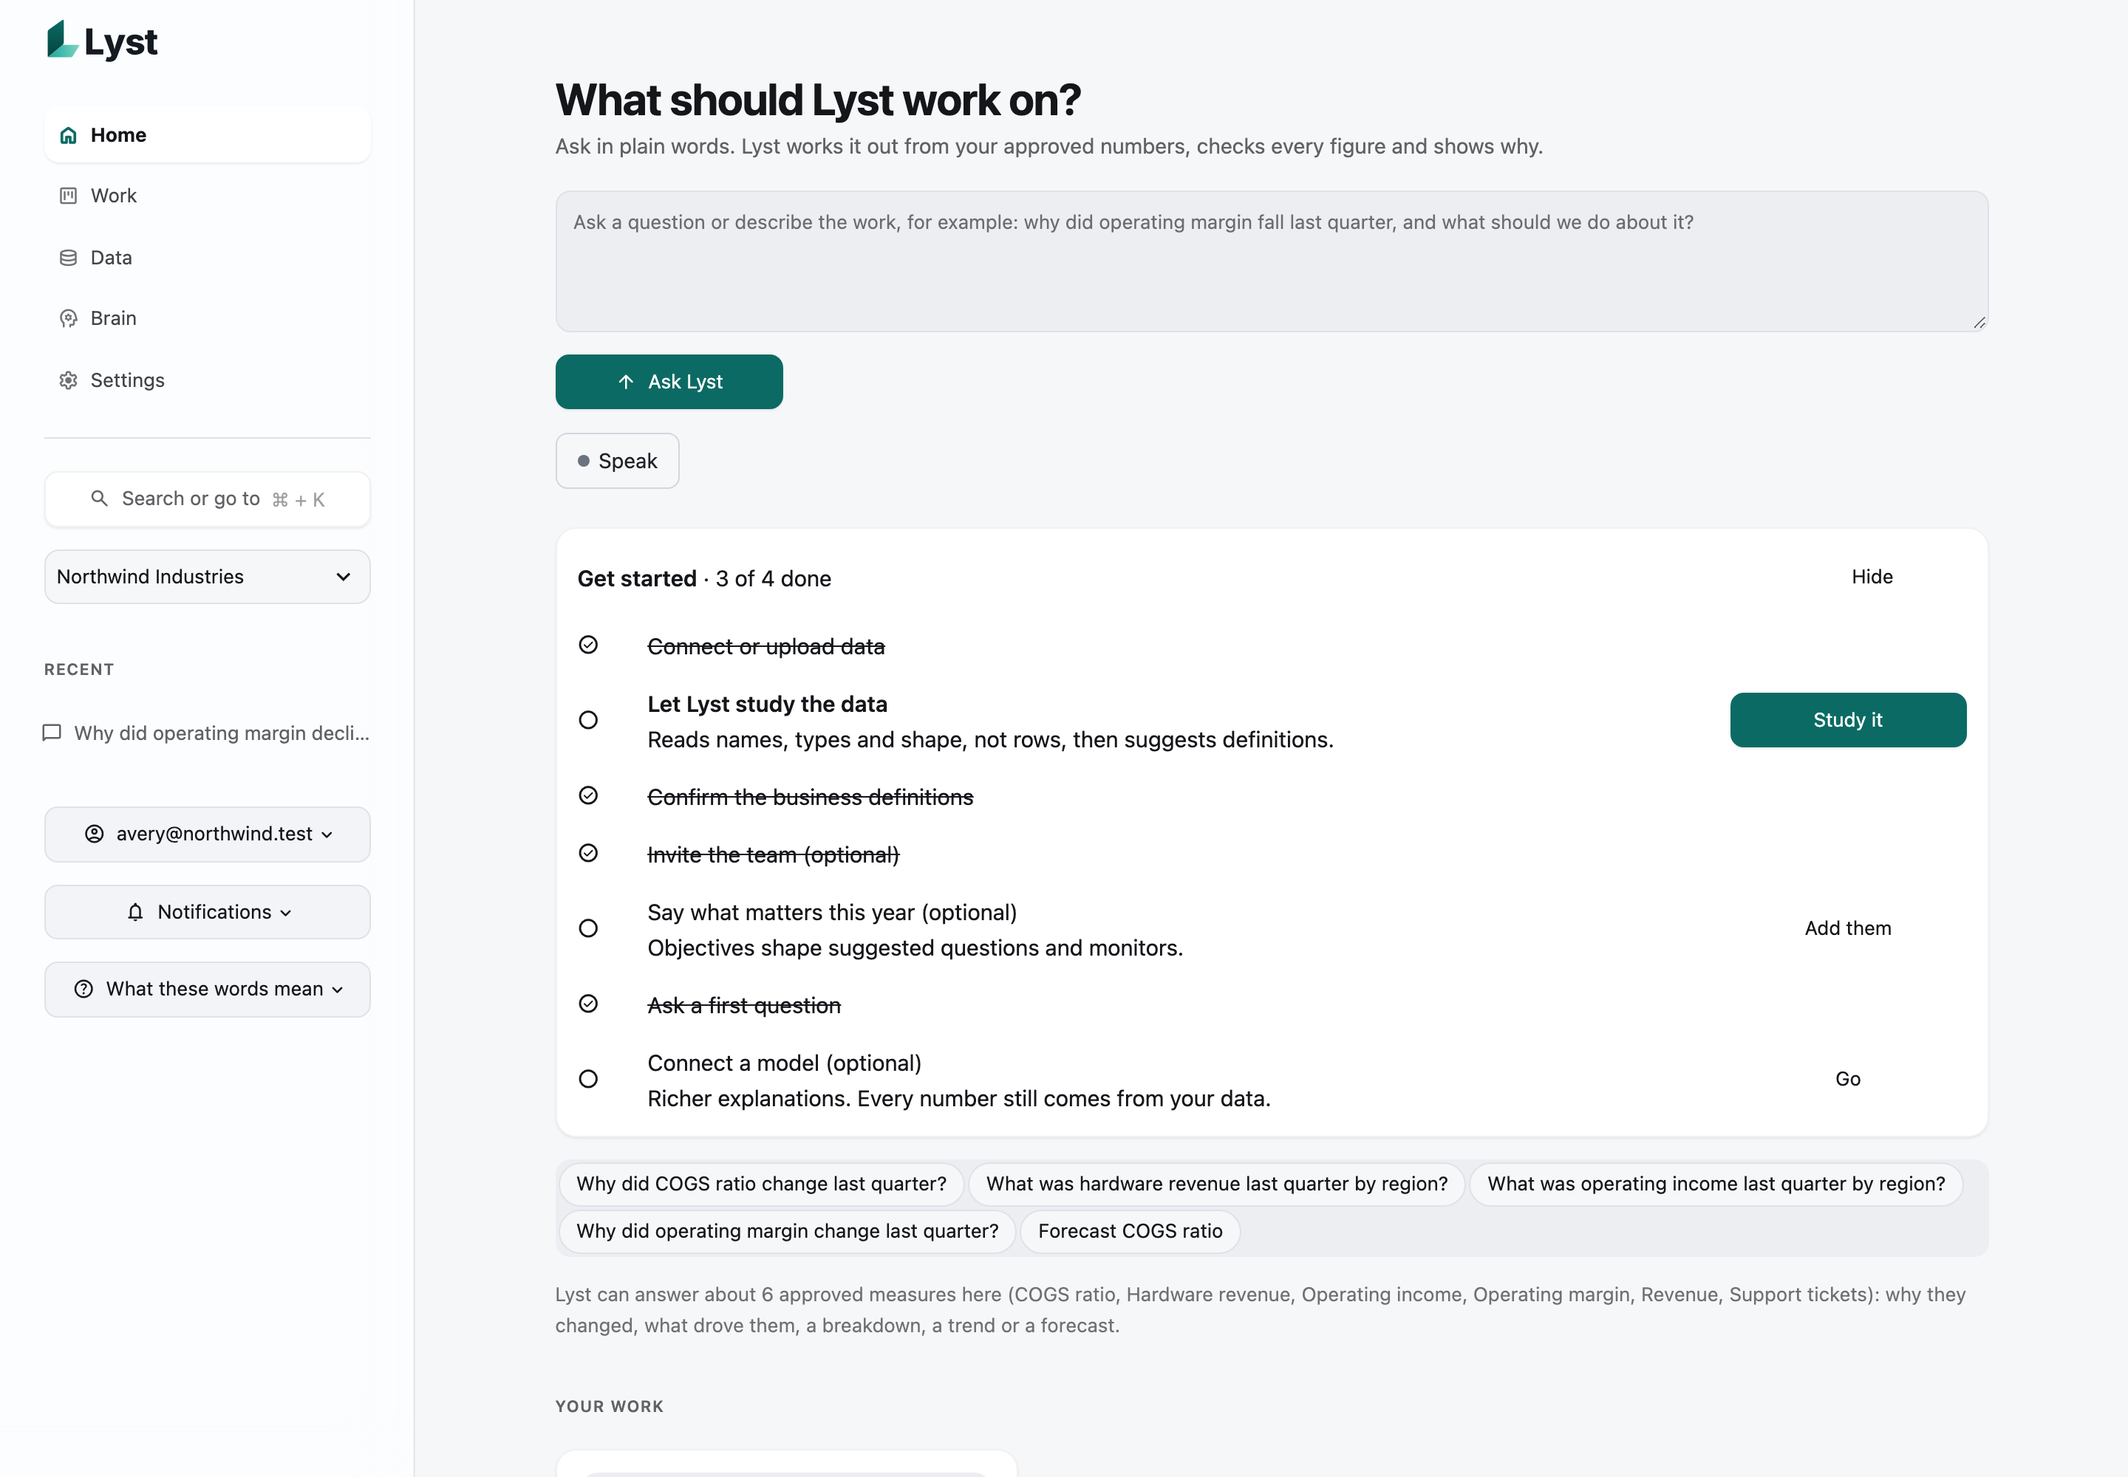
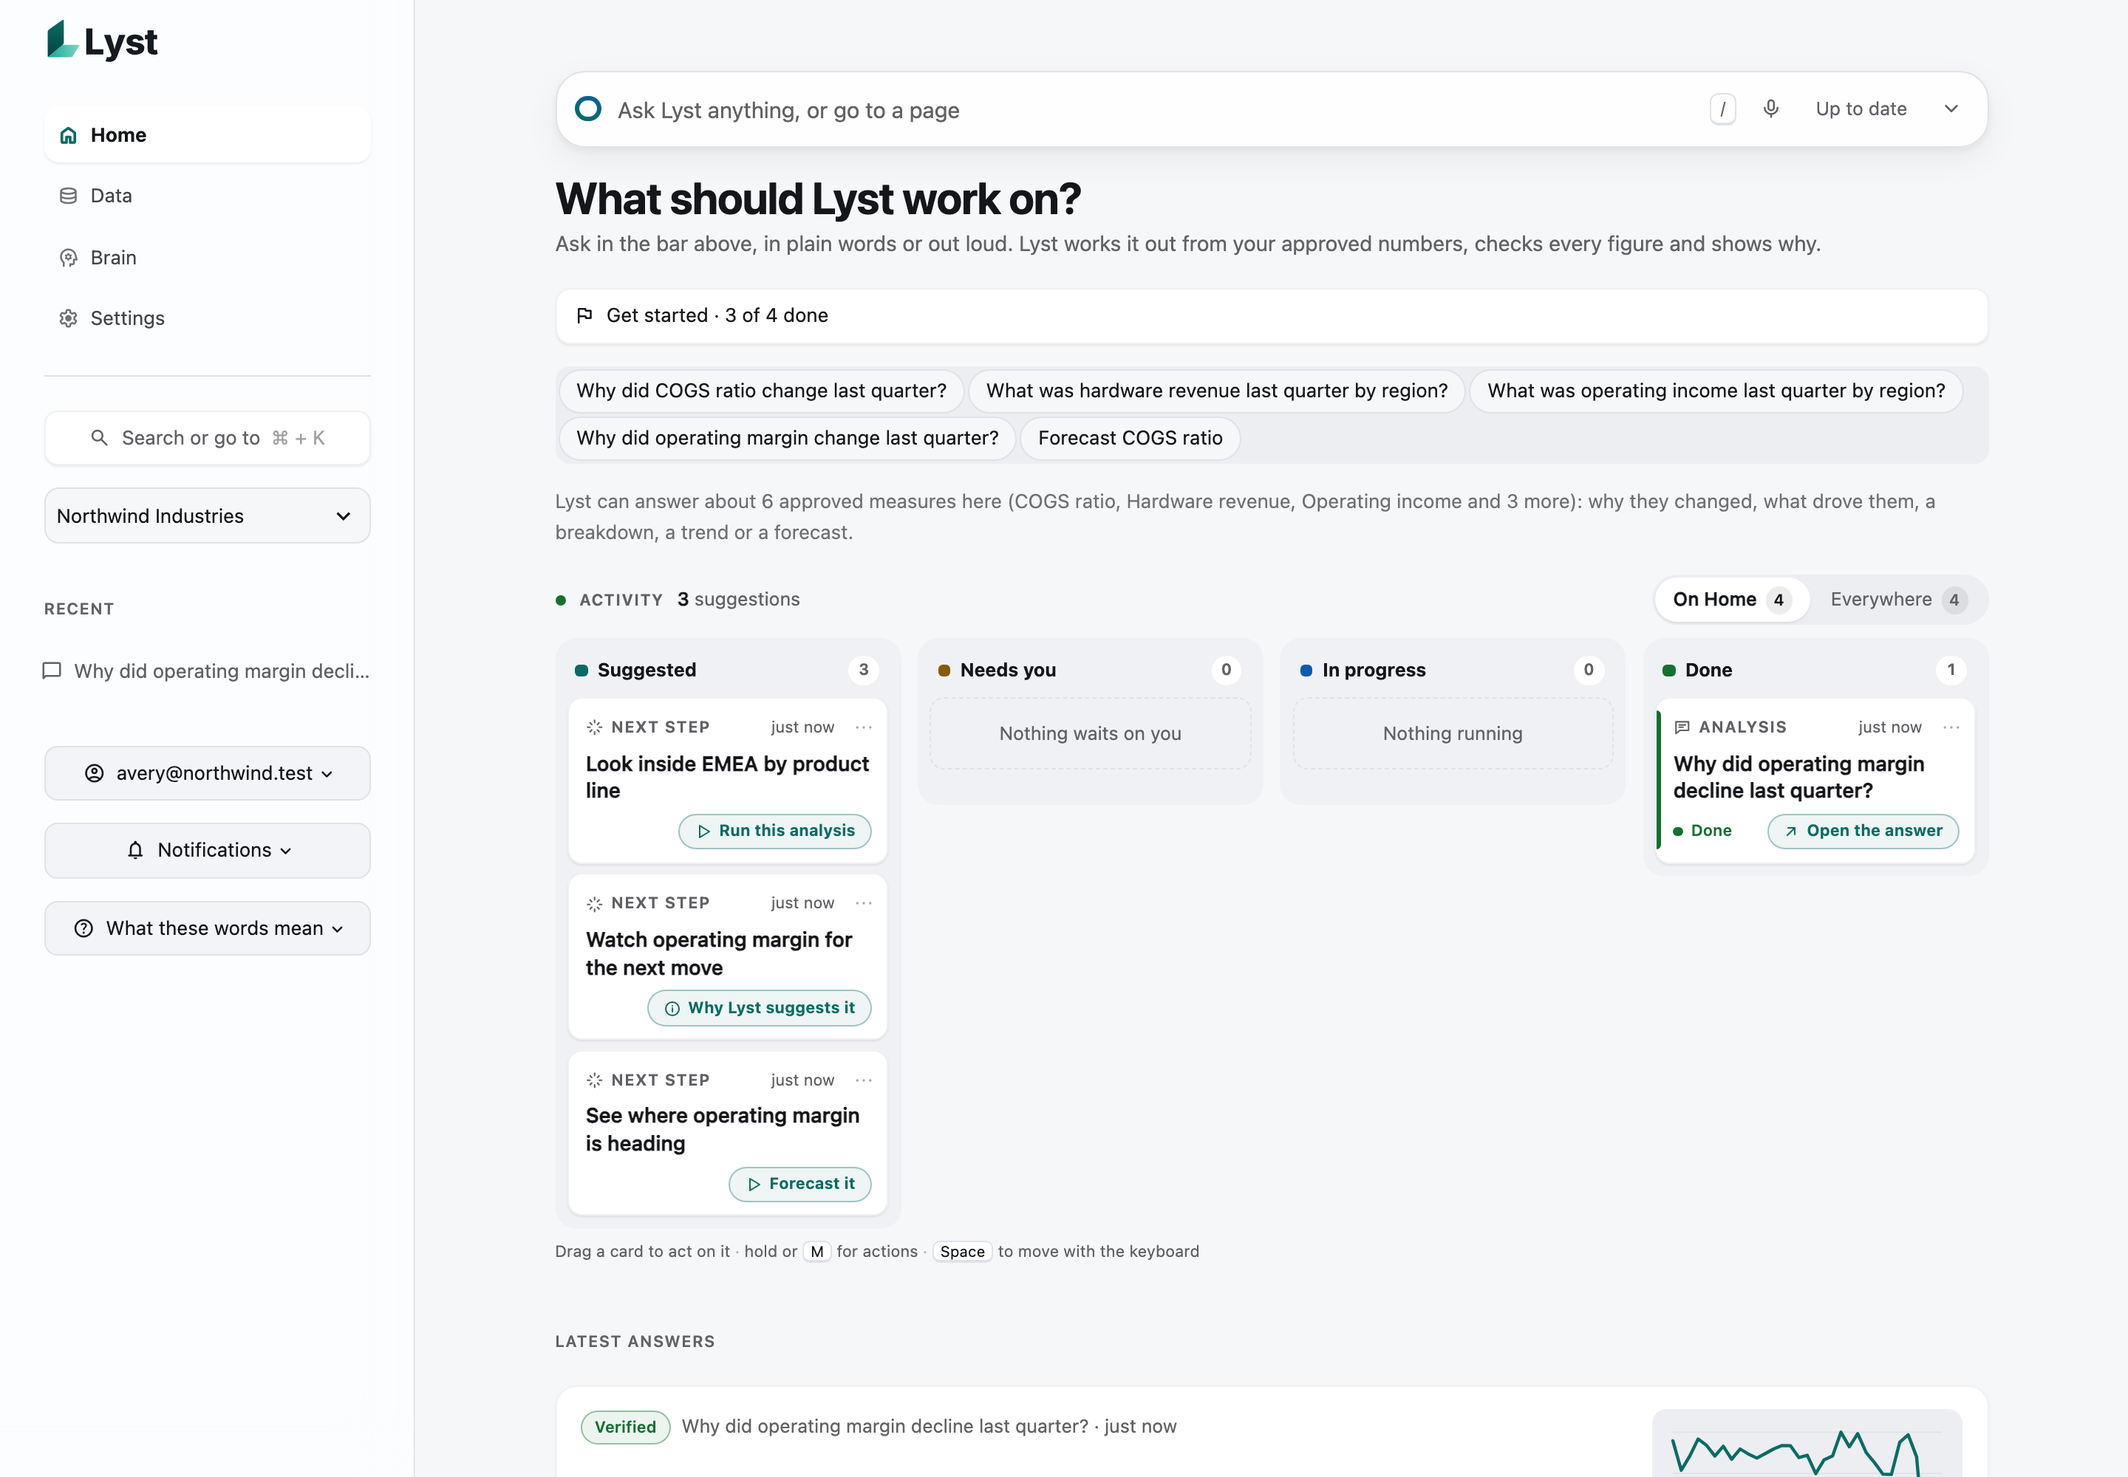
README: Home, Data, Brain, Settings; activity board and agent bar; locale and fault tests (#147)
* README: four areas with Work under Brain (#144), the activity board and Lyst agent bar (#145/#146), fault tests and locale/accessibility helpers (#139)

* README: say the locale and accessibility helpers are not used by the interface yet (#139)

---------

diff --git a/README.md b/README.md
@@ -83,24 +83,35 @@ understanding and wording, never the numbers.
 
 ## A tour of the interface
 
-One navigation with five areas, and one visual language behind every screen: a calm canvas with raised, softly lit
-surfaces, a translucent sidebar, dialogs that rise as sheets, native-style segmented controls and buttons, the
-system typeface, and motion that respects reduced-motion settings, in light and dark. A single set of design
-tokens drives Streamlit's widgets, Lyst's own components and every chart, every screen is checked by an automated
-render with WCAG 2.2 AA accessibility scanning, and text and status colours meet 4.5:1 contrast in both themes.
-The sidebar holds **Search or go to** (⌘K), your four most recent questions with their live status, notifications,
-and a "What these words mean" glossary.
+One navigation with four areas (Home, Data, Brain and Settings), and one visual language behind every screen: a
+calm canvas with raised, softly lit surfaces, a translucent sidebar, dialogs that rise as sheets, native-style
+segmented controls and buttons, the system typeface, and motion that respects reduced-motion settings, in light
+and dark. A single set of design tokens drives Streamlit's widgets, Lyst's own components and every chart, every
+screen is checked by an automated render with WCAG 2.2 AA accessibility scanning, and text and status colours meet
+4.5:1 contrast in both themes. At the top of every page is the **Lyst agent bar**: ask by typing or speaking
+(asked from Data, Brain or Settings, the answer follows in a panel without leaving the page), go anywhere by name
+("go to SQL", "open definitions"), and watch Lyst work: a **Watch** chip for what is running, a **Live** panel
+with each step and the event feed, and an opt-in **Follow Lyst**. Below it, every page has the same **activity
+board**, with Suggested, Needs you, In progress and Done, scoped to the page with an **Everywhere** switch: click
+a card to open it, hold it (or press M) for its actions, or drag it to another column to propose that move, with
+each column saying what a drop would do; the keyboard works too (arrows, and Space to pick up and drop), every
+change asks for confirmation and goes through the usual approvals and permissions, and viewers can only open
+cards. The sidebar holds **Search or go to** (⌘K), your four most recent questions with their live status,
+notifications, and a "What these words mean" glossary.
 
 | Area | What you do there |
 |---|---|
-| **Home** | A workspace, not a dashboard: the composer (with **Speak**), a Get started card that follows the workspace's real set-up state, suggested questions, **Your work** (a shelf of what Lyst has made, each with a preview drawn from its own content) and the conversations to pick up |
-| **Work** | A command center: a live status strip, then what needs you (approvals), what Lyst is doing and finished as a day-by-day timeline or a board, and what runs on its own: watched metrics, scheduled questions and what Lyst noticed. Each task's steps show as a timeline from the engine. **Automatic** shows what event rules started, with why, the flow and any approval inline |
-| **Data** | A library rail of datasets, approved metrics and dashboards beside the workspace; tabs for Datasets (as cards, a map of shared columns, or a list), Sources, Dashboards, Saved analyses and SQL (with a sandboxed **Python** tab), plus **Ask about the data**. Every dataset card shows its size, freshness, the shape of its columns and what it feeds. **Add data** uploads a file, connects a source, or proposes connections from an API description |
-| **Brain** | What Lyst knows about the business, opening on its **Graph**: a map of everything it knows and how it links, plus graph runs. Then Definitions (each approved metric and term as what it means and how it is built, or a map from data to metrics), Documents it can cite, Memory (with memories waiting for review), and **Specializations**: a searchable catalog of the 136 kinds of analyst work with each one's honest maturity |
+| **Home** | Answer-first: a one-line status ("1 thing needs you · watching 3 metrics · next run in 3 h"), suggested questions, the activity board, then **Latest answers** as cards (the verified answer with a preview; *Why, and what to do* folds open in place) and **Made for you**. Get started and earlier answers fold into one line each |
+| **Data** | Opens with Lyst's read on the data in one line ("1 of 4 datasets needs attention…", with **Review**), then the activity board, a library rail of datasets, approved metrics and dashboards, and tabs for Datasets (as cards, a map of shared columns, or a list), Sources, Dashboards, Saved analyses and SQL (with a sandboxed **Python** tab), plus **Ask about the data**. **Add data** uploads a file, connects a source, or proposes connections from an API description |
+| **Brain** | What Lyst knows, what it is doing and what it runs on its own, in a band at the top. Its sections: **Work** (needs you, activity with Running, Done, Stopped, Automatic, Decisions and Published, and recurring work: watched metrics, scheduled questions and what Lyst noticed; each task's steps show as a timeline from the engine), **Graph** (the default: a map of everything it knows and how it links, plus graph runs), Definitions, Documents it can cite, Memory (with memories waiting for review), and **Specializations** (the 136 kinds of analyst work with each one's honest maturity) |
 | **Settings** | A native two-pane screen with grouped settings: Models (level and costs), Connections (keys and sources), Workspace (members, autonomy, data policy, webhooks, audit trail), Voice, and Advanced (skills, capabilities, evaluation runs, and how working ahead went) |
 
 <p align="center">
-  <img src="docs/images/home.png" alt="Home: the ask box with Speak, the Get started card with its set-up steps, and the first metric tiles" width="80%">
+  <img src="docs/images/home.png" alt="Home: the Lyst agent bar, suggested questions, and the activity board with Suggested, Needs you, In progress and Done" width="80%">
+</p>
+
+<p align="center">
+  <img src="docs/images/agent-bar.png" alt="The Lyst agent bar: typing go to sql offers Data, SQL with Go" width="70%">
 </p>
 
 ### ⌘K: ask or go anywhere
@@ -196,11 +207,11 @@ in what the answer found, each with Run now (or Watch it), Later and Why.
 
 <table>
   <tr>
-    <td width="50%"><img src="docs/images/work.png" alt="Work: needs you, activity and recurring runs"><br><b>Work</b>: needs you, activity and recurring runs</td>
+    <td width="50%"><img src="docs/images/work.png" alt="Brain, Work: needs you, activity filters (Running, Done, Stopped, Automatic, Decisions, Published) and recurring"><br><b>Brain › Work</b>: needs you, activity and recurring runs</td>
     <td width="50%"><img src="docs/images/data.png" alt="Data: datasets with descriptions, rows, freshness and classification"><br><b>Data</b>: datasets, dashboards, saved analyses and SQL</td>
   </tr>
   <tr>
-    <td><img src="docs/images/brain.png" alt="Brain: approved metrics and business terms"><br><b>Brain</b>: definitions, documents and memory</td>
+    <td><img src="docs/images/brain.png" alt="Brain: what Lyst knows, is doing and runs on its own, above the sections and the knowledge graph"><br><b>Brain</b>: what it knows, is doing and runs on its own</td>
     <td><img src="docs/images/saved-analyses.png" alt="Data, Saved analyses: a verified analysis ready to rerun"><br><b>Saved analyses</b>: verified work Lyst reruns for any period</td>
   </tr>
 </table>
@@ -226,7 +237,7 @@ compares options on weighted criteria and constraints under uncertainty, finds w
 change, and allocates budgets with an exact solver. It says "insufficient evidence" or "no clear winner" rather
 than claim one. A **decision record** goes from analyzed to submitted to approved or rejected by a person, who
 may pick a different option, and is later reviewed against what actually happened. Nothing is executed. Editors
-start one with **Compare options** on an answer, and records are listed in Work › Activity › Decisions.
+start one with **Compare options** on an answer, and records are listed in Brain › Work › Activity › Decisions.
 
 <table>
   <tr>
@@ -335,7 +346,7 @@ says a person is needed.
 * **Your notifications, your way.** Mentions, assignments, reviews, decisions and comments on what you own
   arrive in one list with platform notices, and each kind can be switched off per person.
 
-On screen: **Share** and **Discuss** sit on every answer; **Work › Needs you** adds *Assigned to you* (Open, Done)
+On screen: **Share** and **Discuss** sit on every answer; **Brain › Work › Needs you** adds *Assigned to you* (Open, Done)
 and *Reviews waiting* (Open, Approve, Reject), counted in the sidebar; and **Notifications** in the sidebar open
 where they point, with Mark all read and "What to tell me about".
 
@@ -475,8 +486,8 @@ where they point, with Mark all read and "What to tell me about".
   inside the main driver, watch a metric that moved, make a repeated question recurring, extend a review into a
   forecast); each can be run now, watched or scheduled, and watching or scheduling still needs approval. On
   watched metrics it raises an early warning only when two kinds of evidence agree (change point, sustained trend,
-  forecast drift, projected breach), investigates it first, and surfaces a verified warning in Work › Needs you
-  with the answer, drivers, implications and next steps. On screen: **Coming up** at the top of Work › Recurring
+  forecast drift, projected breach), investigates it first, and surfaces a verified warning in Brain › Work › Needs you
+  with the answer, drivers, implications and next steps. On screen: **Coming up** at the top of Brain › Work › Recurring
   (Ready, Blocked or Check first, with Run now, Later and Why), **Prepared for you** in Needs you for items that
   need a person, **Next steps** under each answer, a line on Home when an upcoming run is blocked, and **Working
   ahead** in Settings › Workspace to pick the level and see today's use against the daily limits. The **Why**
@@ -505,18 +516,18 @@ where they point, with Mark all read and "What to tell me about".
   repair. Each rule has a ceiling on how far it may go on its own, a daily cap and quiet periods, can be dry-run
   against recent events first, and anything that changes something waits for approval. Seven templates cover data
   quality, schema changes, broken reports, metric deviations, recoverable failures, definition changes and failing
-  connections. Rules live in Settings › Workspace › **Event rules**, and what they started shows in Work ›
+  connections. Rules live in Settings › Workspace › **Event rules**, and what they started shows in Brain › Work ›
   Activity › **Automatic** ([docs/EVENTS.md](docs/EVENTS.md)).
 * **Knows what can be done with each thing, and by whom.** Every dataset, metric, answer, report, workflow,
   scenario model and decision record knows the actions available on it right now for the person looking, filtered
   by role, data policy and its state, and anything that changes something asks a person first. The server
   re-checks every action when it runs and refuses, and audits, anything not offered. Every task reports one
   status: Preparing, Investigating, Executing, Verifying, Awaiting Approval, Completed or Needs Attention, each
-  tied to the event that caused it. Work started from any page lands in Work and records where it began, and its
+  tied to the event that caused it. Work started from any page lands in Brain › Work and records where it began, and its
   verified result is kept as a report. When data changes, affected reports offer a repair that waits for a person,
   and each repair is verified. On screen, **More** sits beside Brief and Focus on every answer, and on metric
-  definitions, Work's task details and the artifact viewer, grouped as Ask Lyst, Do and Go to, with what needs
-  approval marked; Work's list and board show each task's lifecycle state and what it is doing now.
+  definitions, Brain › Work's task details and the artifact viewer, grouped as Ask Lyst, Do and Go to, with what needs
+  approval marked; the activity board and Brain › Work show each task's lifecycle state and what it is doing now.
 * **Runs every task under a contract.** Each task gets a frozen, hashed contract (goal, inputs, output,
   constraints, what done means) checked against the stored records, a cost budget and a cap on retries, and each
   run leaves a change receipt: the context it used, data-policy version, model route, tools, checks, retries,
@@ -543,7 +554,7 @@ where they point, with Mark all read and "What to tell me about".
   after downtime and record what they missed, never double a run still going, and tell the owner when a run
   finishes or fails. A supervisor flags stalled steps and late or undecided work without ever killing it, and
   admins get an operations report (queues, failures, run times, spend against budget). On screen, Settings ›
-  Workspace › **Usage & limits** shows spend, tokens and tasks against the limits; Work › **Recurring** shows each
+  Workspace › **Usage & limits** shows spend, tokens and tasks against the limits; Brain › Work › **Recurring** shows each
   schedule's cadence, next and last run and any missed runs; and at a limit, Home says so in plain words. See
   [docs/OPERATIONS.md](docs/OPERATIONS.md).
 
@@ -578,7 +589,9 @@ where they point, with Mark all read and "What to tell me about".
   and a planted-defect test proves the gate catches it. Runs report quality by dimension (completion, correctness,
   evidence, efficiency) and by category. Model routing learns from Lyst's own call records: a model that keeps
   failing a kind of work moves behind healthy ones (pinned models are never reordered), and a model registry shows
-  each model's context, prices and reasoning settings beside its measured performance.
+  each model's context, prices and reasoning settings beside its measured performance. Fault-injection tests break
+  things part-way (a commit, an export that runs out of disk, an import, a webhook, a flood of output, corrupt
+  workbooks, PDFs and CSVs) and check that nothing is left half done and the cause is stated.
 
 ### Working with others
 
@@ -622,6 +635,12 @@ where they point, with Mark all read and "What to tell me about".
 
 ### Running it
 
+* **Locale and accessibility helpers, ready for the interface.** `src/lyst/i18n.py` formats numbers, currency,
+  percentages, compact units and dates for en-US, en-GB, de-DE, fr-FR, es-ES, pt-BR, ja-JP and hi-IN (with lakh
+  grouping), rounds half up, uses a real minus sign so screen readers say "minus", and never shows a negative zero
+  (`LYST_LOCALE`). It also checks WCAG 2.2 AA contrast and writes plain-language descriptions of charts and tables
+  for screen readers and alt text. The helpers are tested but the interface does not use them yet; raw data is
+  never changed by them, only how it is shown.
 * **Fits how you deploy.** `LYST_PROFILE` picks `local` (the default), `offline` (a local model only, no catalog
   refresh or telemetry, webhooks to private addresses only), `server` (all interfaces, with OIDC and TLS expected
   at the proxy) or `portable` (a self-contained data folder that moves as a workspace pack). `lyst doctor` checks
